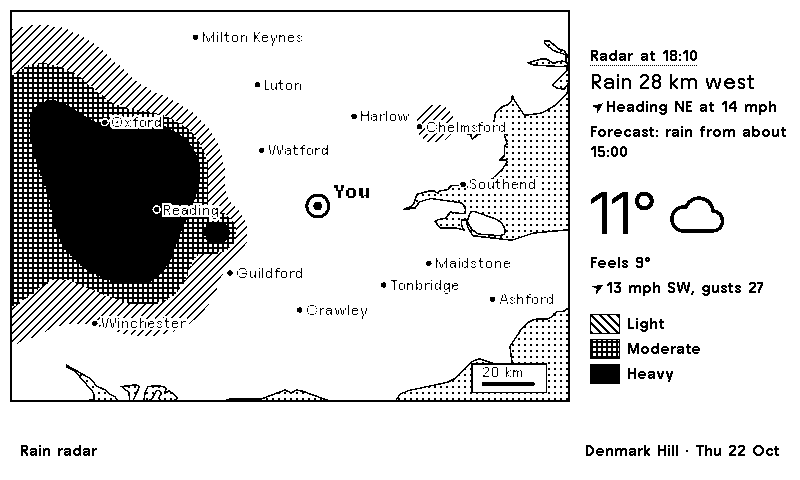
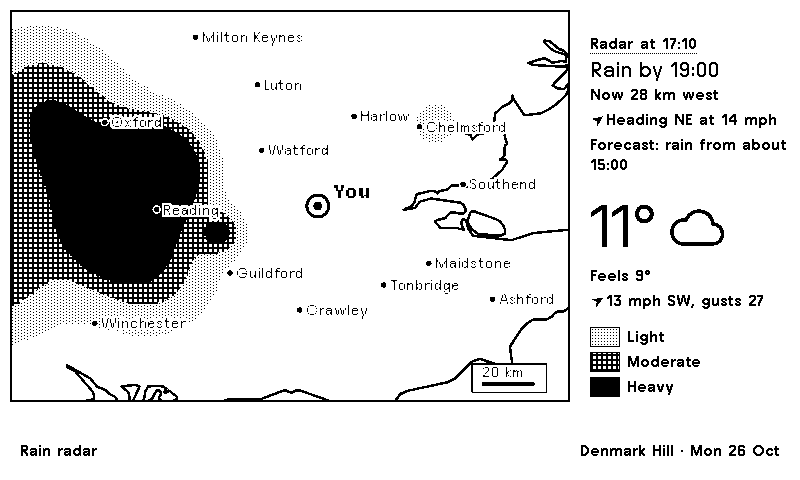
Update radar and weather READMEs and preview for the new look
Claude-Session: https://claude.ai/code/session_0171ecE4VXWnkUyYAbFCpR6C

diff --git a/trmnl-radar/README.md b/trmnl-radar/README.md
@@ -8,10 +8,10 @@ A full-screen rain radar map for Champion Grove, SE5 (Denmark Hill), with how fa
 
 ## What's on the screen
 
-- **Map.** About 210 km by 150 km of South East England, centred on you. Land is white, sea is dotted, and a few towns are labelled so you can tell where the rain is. A 20 km scale bar sits in the corner.
-- **Rain.** The latest radar picture from [RainViewer](https://www.rainviewer.com) (free, no key), in three patterns: stripes for light, a grid for moderate, solid black for heavy.
-- **Side panel.** The radar's time, how far and which way the nearest rain is ("Rain 28 km west", "Raining here", "No rain on the map"), which way the rain is heading and how fast ("Heading NE at 14 mph"), the forecast's next start or stop time, temperature with a weather icon, feels-like, and wind with gusts from [Open-Meteo](https://open-meteo.com).
-- **Rain movement.** Worked out by comparing the newest radar picture with one from about 30 minutes earlier and finding the shift that lines them up best. It's left off when there's too little rain on the map to tell, and says "Rain barely moving" below 3 mph.
+- **Map.** About 210 km by 150 km of South East England, centred on you. Land and sea are plain white with a bold coastline, and a few towns are labelled so you can tell where the rain is. A 20 km scale bar sits in the corner.
+- **Rain.** The latest radar picture from [RainViewer](https://www.rainviewer.com) (free, no key), in three patterns: fine dots for light, a grid for moderate, solid black for heavy.
+- **Side panel.** The radar's time, when the rain should reach you ("Rain in 40 min", or "Rain by 19:00" when it's over an hour away), where it is now ("Now 28 km west"), which way it's heading and how fast ("Heading NE at 14 mph", or "Not heading this way"), the forecast's next start or stop time, temperature with a weather icon, feels-like, and wind with gusts from [Open-Meteo](https://open-meteo.com).
+- **Rain movement.** Worked out by comparing the newest radar picture with one from about 30 minutes earlier and finding the shift that lines them up best. The arrival time assumes it keeps going the same way at the same speed, up to 3 hours ahead. It's left off when there's too little rain on the map to tell, and says "Rain barely moving" below 3 mph.
 
 ## How it's used
 

diff --git a/trmnl-weather/README.md b/trmnl-weather/README.md
@@ -10,7 +10,7 @@ A TRMNL private plugin that shows the weather right now with when rain is due, a
 
 - **Now.** Temperature, icon, a few words, feels-like, today's high and low, and wind: speed, where it's from (e.g. SW) with an arrow pointing the way it's blowing, and gusts on the full and quarter-size layouts. There's no clock: TRMNL only redraws the screen when it fetches new data (every 15 minutes here), so a time would always be stale. The date sits above the current conditions.
 - **Rain line.** If it's dry: "Rain from about 16:00 (60%)", the first hour in the next 24 with at least 0.1 mm or a 50% chance. If it's raining: "Raining, dry from about 19:00". Otherwise "No rain in the next 24 hours".
-- **Chart.** One column per hour from now. The line is temperature. Bars are the rain expected in that hour, in mm, with the amount written on top. The scale runs to 2 mm, or to the wettest hour if that's more. The chance of rain is the percentage under each hour, and under that an arrow and mph show the wind every two hours (every four on the narrow layout). The arrow points the way the wind is blowing.
+- **Chart.** One column per hour from now. The line is temperature, labelled at now, the day's high and low, and every 3 hours. Hours after dark have a dotted background, with a moon where night starts. Bars are the rain expected in that hour, in mm, with the amount written on top. The scale runs to 2 mm, or to the wettest hour if that's more. The chance of rain is the percentage under each hour, and under that an arrow and mph show the wind every two hours (every four on the narrow layout). The arrow points the way the wind is blowing.
 - **Next three days** (two in the half-size layout). High and low, icon, words, the day's highest chance of rain and the total expected, and the day's top wind speed with its main direction. The narrow layout leaves out the words to fit.
 
 Icons are drawn in SVG inside the markup, so there are no images to host and they stay sharp on the e-ink screen.
